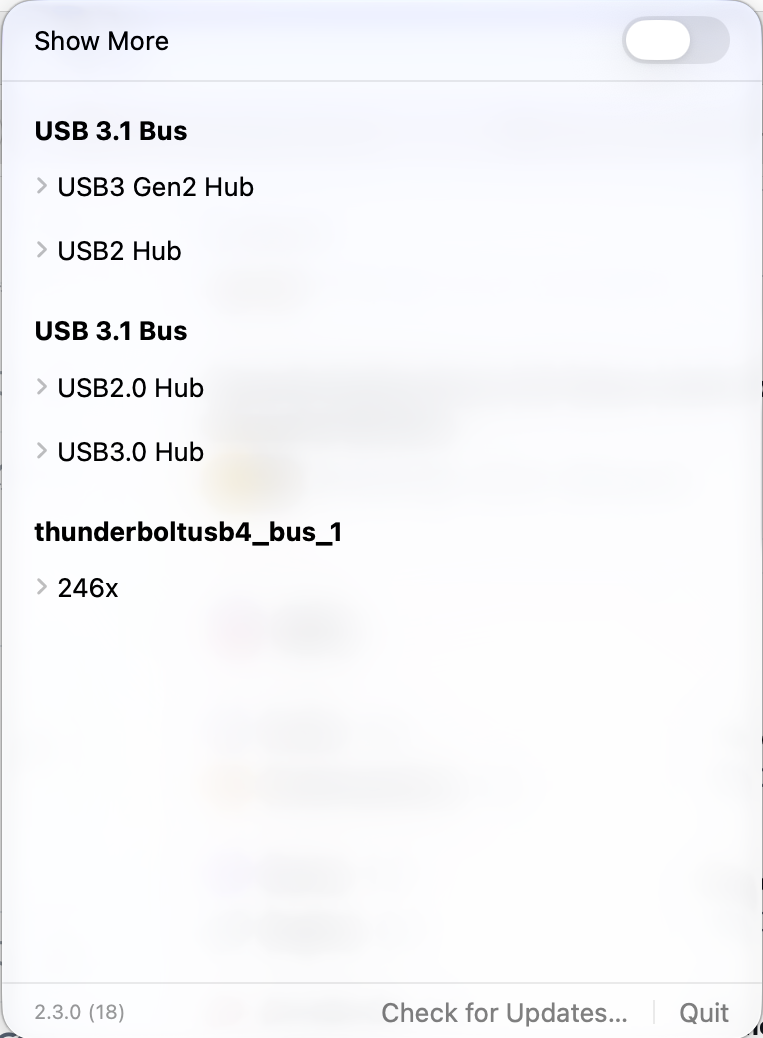
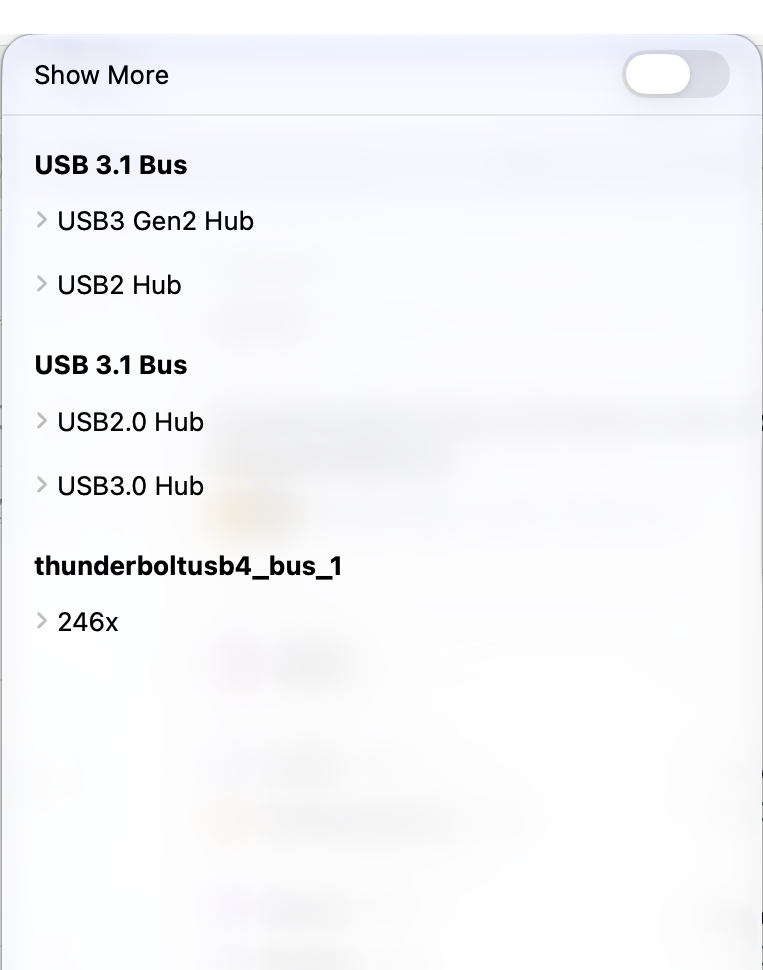
Update website screenshot crop

diff --git a/index.html b/index.html
@@ -59,7 +59,7 @@
             <div class="actions"><a class="button primary" href="https://github.com/owenzhao/USB-C-Speed">View on GitHub</a><a class="button" href="#features">Explore features</a></div>
           </div>
           <div class="app-window" aria-label="USB-C Speed menu bar panel">
-            <img src="assets/sc-current.png" alt="USB-C Speed menu bar panel showing connected USB and Thunderbolt buses with a Show More switch" width="763" height="1038">
+            <img src="assets/sc-current.png" alt="USB-C Speed menu bar panel showing connected USB and Thunderbolt buses with a Show More switch" width="763" height="970">
           </div>
         </div>
       </div>
